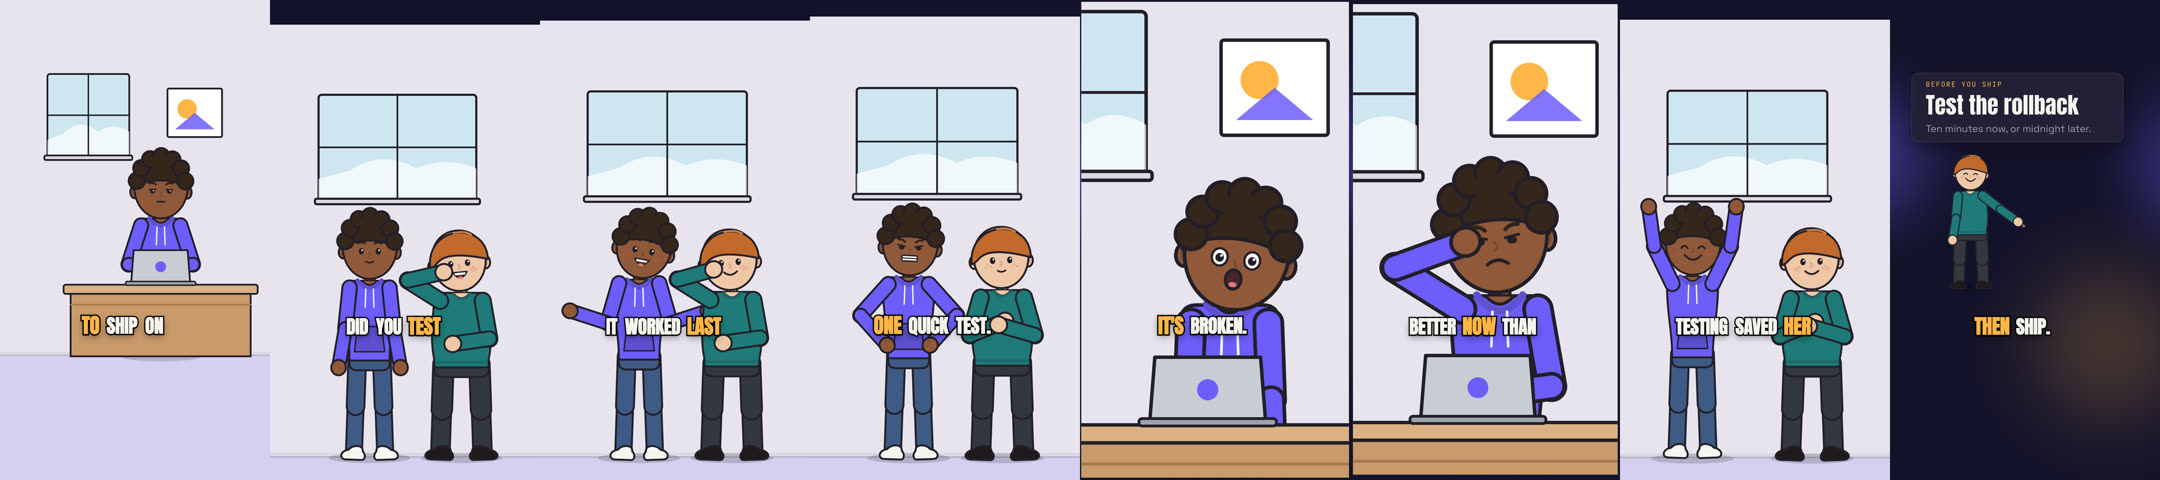
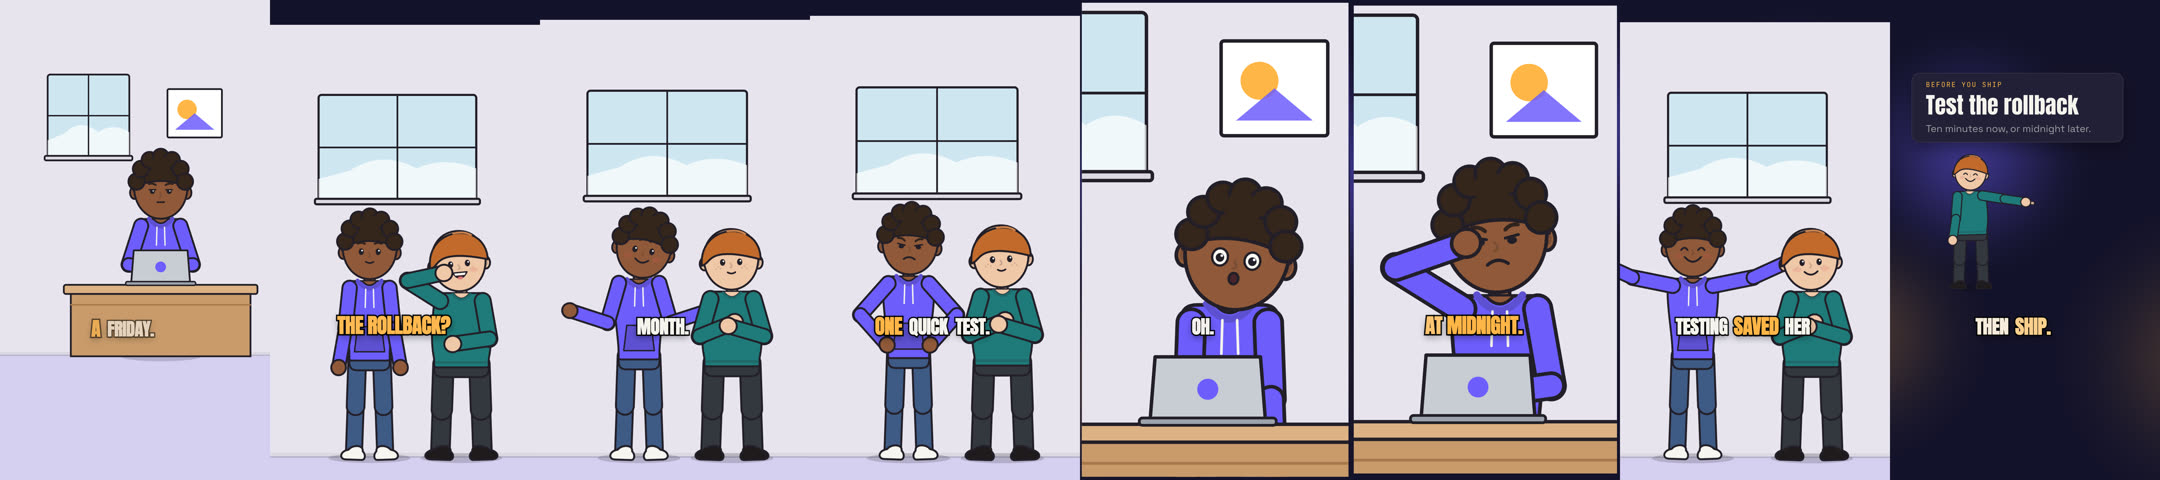
fix(examples): the dialogue example on real voice timings, cut between shots
The fades between cast scenes drew two copies of a character; the shots now
cut. NARRATION.json carries the timings of a Kokoro take, the script has five
title options, and the closing card is up long enough to read.

diff --git a/test/direction.test.js b/test/direction.test.js
@@ -184,7 +184,7 @@ test("a line a character speaks off screen fails unless it says why", async () =
   delete mapLine(silent, "l8").why;
   const errors = validateDirection(silent, { words, story, script }).errors;
   assert.equal(errors.length, 1);
-  assert.match(errors[0], /sections\[3\] \(turn\)\.lines\[1\]: sam speaks words \[24, 28\] \("Better now than at midnight\.", 13\.74–15\.78 s\), but no scene with sam is on screen then; put sam in a character scene over the line, or say why/);
+  assert.match(errors[0], /sections\[3\] \(turn\)\.lines\[1\]: sam speaks words \[24, 28\] \("Better now than at midnight\.", [\d.]+–[\d.]+ s\), but no scene with sam is on screen then; put sam in a character scene over the line, or say why/);
   // The narrator is never on screen, and a map without story beats is not held to the rule.
   assert.equal(errors.some((error) => /narrator speaks/.test(error)), false);
   const plain = structuredClone(silent);
@@ -194,7 +194,7 @@ test("a line a character speaks off screen fails unless it says why", async () =
   assert.deepEqual(validateDirection(silent, { words, script, lane: "voiceover-motion", deferScenes: true }).errors, []);
   // Part of a line: the character leaves before the line ends.
   const short = structuredClone(story);
-  short.scenes.find((scene) => scene.id === "ask").end = 9.5;
+  short.scenes.find((scene) => scene.id === "ask").end = words[18].start - 0.01;
   assert.match(validateDirection(map, { words, story: short, script }).errors.join("\n"), /maya speaks words \[17, 20\] .* but no scene with maya is on screen for 3 of those 4 words \(from "One quick test\."\)/);
 });
 
@@ -229,7 +229,10 @@ test("story shots lists each shot with frames, who, set, framing, poses and line
     if (i) assert.equal(shot.first_frame, report.shots[i - 1].last_frame + 1);
   }
   const ask = report.shots[1];
+  const board = JSON.parse(await readFile(`${DIALOGUE}storyboard.json`, "utf8"));
   assert.deepEqual({ who: ask.who, set: ask.set, framing: ask.framing, beats: ask.beats }, { who: ["maya", "sam"], set: "standing", framing: "medium", beats: ["problem", "attempt"] });
+  assert.equal(board.scenes[1].params.shot, undefined, "the scene names no shot: the list gives the framing it resolves to");
+  assert.equal(report.shots.at(-1).last_frame, Math.round(board.scenes.at(-1).end * report.fps) - 1);
   assert.deepEqual(ask.lines.map(({ line, speaker, on_screen, text }) => ({ line, speaker, on_screen, text })), [
     { line: "l2", speaker: "sam", on_screen: true, text: "Did you test the rollback?" },
     { line: "l3", speaker: "maya", on_screen: true, text: "It worked last month." },
@@ -251,10 +254,10 @@ test("story shots lists each shot with frames, who, set, framing, poses and line
 
   const { formatShots } = await import("../src/story_shots.js");
   const text = formatShots(report);
-  assert.match(text, /5 shots, 23\.50 s at 30 fps/);
-  assert.match(text, / 2 {2}ask {2}3\.38–10\.91 s {2}frames 101–326 \(226\)/);
+  assert.match(text, /5 shots, 20\.00 s at 30 fps/);
+  assert.match(text, / 2 {2}ask {2}[\d.]+–[\d.]+ s {2}frames \d+–\d+ \(\d+\)/);
   assert.match(text, /l8 sam \(off screen\): "Better now than at midnight\."/);
-  assert.match(text, /sam: 3\.38 stand, neutral → 3\.63 think, happy/);
+  assert.match(text, /sam: [\d.]+ stand, neutral → [\d.]+ think, happy/);
   assert.match(text, /Script lines no map line plays \(2 of 10\)/);
 });
 

diff --git a/examples/story/dialogue-9x16/README.md b/examples/story/dialogue-9x16/README.md
@@ -1,6 +1,6 @@
 # Dialogue: two characters, a script and a shot list
 
-A 23 s vertical story in five shots. Maya is about to ship on a Friday, Sam
+A 20 s vertical story in five shots. Maya is about to ship on a Friday, Sam
 asks whether she tested the rollback, and she had not. It shows the shot
 fields of the animation pipeline: a script with speakers and silent lines,
 a direction map whose lines name the script lines they play, and the shot
@@ -36,28 +36,34 @@ launchclip finish examples/story/dialogue-9x16 --renderer hyperframes --music sy
 The start of the shot list:
 
 ```text
-Test the rollback: a two-character dialogue: 5 shots, 23.50 s at 30 fps
+Test the rollback: a two-character dialogue: 5 shots, 20.50 s at 30 fps
 
- 1  desk  0.00–3.38 s  frames 0–100 (101)
+ 1  desk  0.00–2.16 s  frames 0–64 (65)
     cast-scene · set desk-laptop · wide shot · beat setup
     who: maya
     key action: maya type (l1)
     maya: 0.00 type, focused
-    0.30–3.10  l1 narrator: "Maya is about to ship on a Friday."
+    0.06–2.11  l1 narrator: "Maya is about to ship on a Friday."
 
- 2  ask  3.38–10.91 s  frames 101–326 (226)
+ 2  ask  2.16–8.52 s  frames 65–255 (191)
     cast-scene · set standing · medium shot · beat problem, attempt
     who: maya, sam
     key action: sam think (l2)
     key action: maya shrug (l3)
     key action: maya hands-on-hips (l5)
-    maya: 3.38 stand, neutral → 6.11 shrug, happy → 8.84 hands-on-hips, frustrated
-    sam: 3.38 stand, neutral → 3.63 think, happy → 7.28 arms-crossed, neutral
-    3.63–5.58  l2 sam: "Did you test the rollback?"  [light, as if in passing]
-    6.11–7.66  l3 maya: "It worked last month."  [breezy]
-    8.84–10.53  l5 maya: "Fine. One quick test."  [giving in]
+    maya: 2.16 stand, neutral → 4.00 shrug, happy → 6.11 hands-on-hips, frustrated
+    sam: 2.16 stand, neutral → 2.41 think, happy → 4.68 arms-crossed, neutral
+    2.41–3.70  l2 sam: "Did you test the rollback?"  [light, as if in passing]
+    4.00–5.11  l3 maya: "It worked last month."  [breezy]
+    6.11–8.32  l5 maya: "Fine. One quick test."  [giving in]
 ```
 
-`NARRATION.json` is a hand-timed stand-in with a speaker on every word, so
-the story validates and its anchors resolve before the voice stage runs;
-`finish` replaces it with the word timings of the synthesised dialogue.
+`NARRATION.json` holds the word timings of one local Kokoro take, with a
+speaker on every word, so the story validates and its anchors resolve before
+the voice stage runs; `finish` writes it again from the voice it makes.
+
+`finish` renders the story in both renderers and passes the direction, cast,
+acting, coverage and structure gates. Two gates fail on this example as it
+stands: `density` (the top third holds only the set while the two stand and
+talk) and `motion` (the rig holds still between pose changes, with no camera
+move). It is an example of the shot fields, not of a finished Short.
